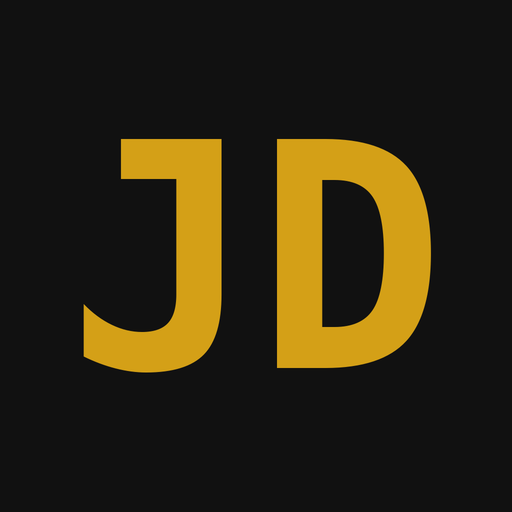
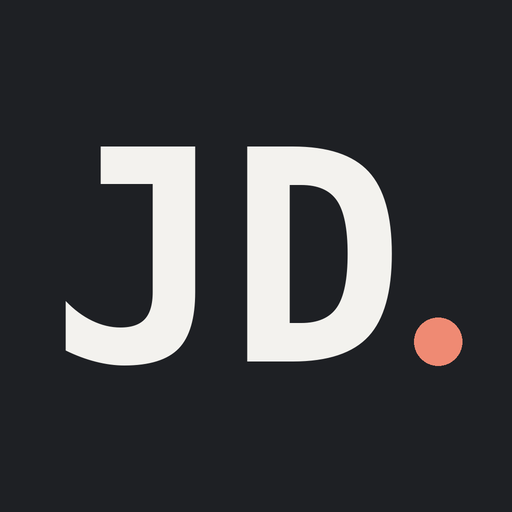
fix(brand): alinhar ícones do portfólio à identidade coral (#34)

Changed region(s): [[0.4688, 0.25, 0.9062, 0.7188], [0.125, 0.25, 0.4375, 0.75]]

diff --git a/scripts/generate-icons.py b/scripts/generate-icons.py
@@ -1,74 +1,56 @@
 #!/usr/bin/env python3
-"""Regenerate the JD monogram favicon/icon set from scratch.
+"""Regenerate JD. icons in graphite, off-white and coral.
 
-Design reference: design/jd-monogram.svg (same colors, font and layout).
-This script draws directly with Pillow instead of rasterizing the SVG
-because the build environment has no SVG->raster tool installed (no
-Inkscape/rsvg-convert/cairosvg). If you change the design, update both
-files consistently.
-
-Requires: Python 3 with Pillow (not a project runtime dependency; this is
-a one-off maintenance script, run manually when the mark needs to change).
-
-Usage:
-    python3 scripts/generate-icons.py
+Editable vector reference: design/jd-monogram.svg. Requires local Pillow and
+DejaVu Sans Mono Bold (system font); no font is distributed.
+Usage: python3 scripts/generate-icons.py
 """
-
 from pathlib import Path
-
 from PIL import Image, ImageDraw, ImageFont
+import io
 
-REPO = Path(__file__).resolve().parent.parent
-
-INK = (17, 17, 17, 255)  # --ink (app/globals.css)
-GOLD = (212, 160, 23, 255)  # --gold (app/globals.css)
+REPO = Path(__file__).resolve().parent.parent if "__file__" in globals() else Path.cwd()
+INK = (30, 32, 36, 255)       # dark graphite
+PAPER = (243, 242, 238, 255)  # off-white
+CORAL = (239, 138, 115, 255)  # coral for contrast against graphite
 FONT_PATH = "/usr/share/fonts/truetype/dejavu/DejaVuSansMono-Bold.ttf"
 MASTER = 1024
-TEXT = "JD"
-SAFE_WIDTH_RATIO = 0.74
-SAFE_HEIGHT_RATIO = 0.60
+FONT_SIZE = 590
+DOT_RADIUS = 48
+DOT_GAP = 18
 
-
-def make_master() -> Image.Image:
+def make_master():
     img = Image.new("RGBA", (MASTER, MASTER), INK)
     draw = ImageDraw.Draw(img)
-    size = 700
-    font = ImageFont.truetype(FONT_PATH, size)
-    bbox = draw.textbbox((0, 0), TEXT, font=font)
-    w, h = bbox[2] - bbox[0], bbox[3] - bbox[1]
-    budget_w, budget_h = MASTER * SAFE_WIDTH_RATIO, MASTER * SAFE_HEIGHT_RATIO
-    while (w > budget_w or h > budget_h) and size > 10:
-        size -= 4
-        font = ImageFont.truetype(FONT_PATH, size)
-        bbox = draw.textbbox((0, 0), TEXT, font=font)
-        w, h = bbox[2] - bbox[0], bbox[3] - bbox[1]
-    x = (MASTER - w) / 2 - bbox[0]
-    y = (MASTER - h) / 2 - bbox[1]
-    draw.text((x, y), TEXT, font=font, fill=GOLD)
+    font = ImageFont.truetype(FONT_PATH, FONT_SIZE)
+    left, top, right, bottom = draw.textbbox((0, 0), "JD", font=font)
+    width, height = right-left, bottom-top
+    combined_width = width + DOT_GAP + 2*DOT_RADIUS
+    x = (MASTER-combined_width)/2-left
+    y = (MASTER-height)/2-top
+    draw.text((x, y), "JD", font=font, fill=PAPER)
+    dot_x = x+right+DOT_GAP+DOT_RADIUS
+    dot_y = y+bottom-DOT_RADIUS
+    draw.ellipse((dot_x-DOT_RADIUS, dot_y-DOT_RADIUS,
+                  dot_x+DOT_RADIUS, dot_y+DOT_RADIUS), fill=CORAL)
     return img
 
+def save_png(img, dest, size, rgb=False):
+    resized=img.resize((size,size), Image.LANCZOS)
+    if rgb: resized=resized.convert("RGB")
+    dest.parent.mkdir(parents=True, exist_ok=True)
+    resized.save(dest, "PNG", optimize=True)
 
-def save_png(im: Image.Image, path: Path, size: int, *, rgb: bool = False) -> None:
-    resized = im.resize((size, size), Image.LANCZOS)
-    if rgb:
-        resized = resized.convert("RGB")
-    path.parent.mkdir(parents=True, exist_ok=True)
-    resized.save(path, format="PNG")
+def main():
+    master=make_master()
+    (REPO/"design").mkdir(parents=True, exist_ok=True)
+    master.save(REPO/"design"/"jd-monogram-master-1024.png", "PNG", optimize=True)
+    save_png(master, REPO/"app"/"icon.png", 512)
+    save_png(master, REPO/"app"/"apple-icon.png", 180, rgb=True)
+    save_png(master, REPO/"public"/"icons"/"icon-192.png", 192)
+    save_png(master, REPO/"public"/"icons"/"icon-512.png", 512)
+    master.save(REPO/"app"/"favicon.ico", "ICO", sizes=[(16,16),(32,32),(48,48)])
+    print("JD. icons regenerated.")
 
-
-def main() -> None:
-    master = make_master()
-    master.save(REPO / "design" / "jd-monogram-master-1024.png")
-
-    save_png(master, REPO / "app" / "icon.png", 512)
-    save_png(master, REPO / "app" / "apple-icon.png", 180, rgb=True)
-    save_png(master, REPO / "public" / "icons" / "icon-192.png", 192)
-    save_png(master, REPO / "public" / "icons" / "icon-512.png", 512)
-
-    master.save(REPO / "app" / "favicon.ico", format="ICO", sizes=[(16, 16), (32, 32), (48, 48)])
-
-    print("Icons regenerated.")
-
-
-if __name__ == "__main__":
+if __name__=="__main__":
     main()
